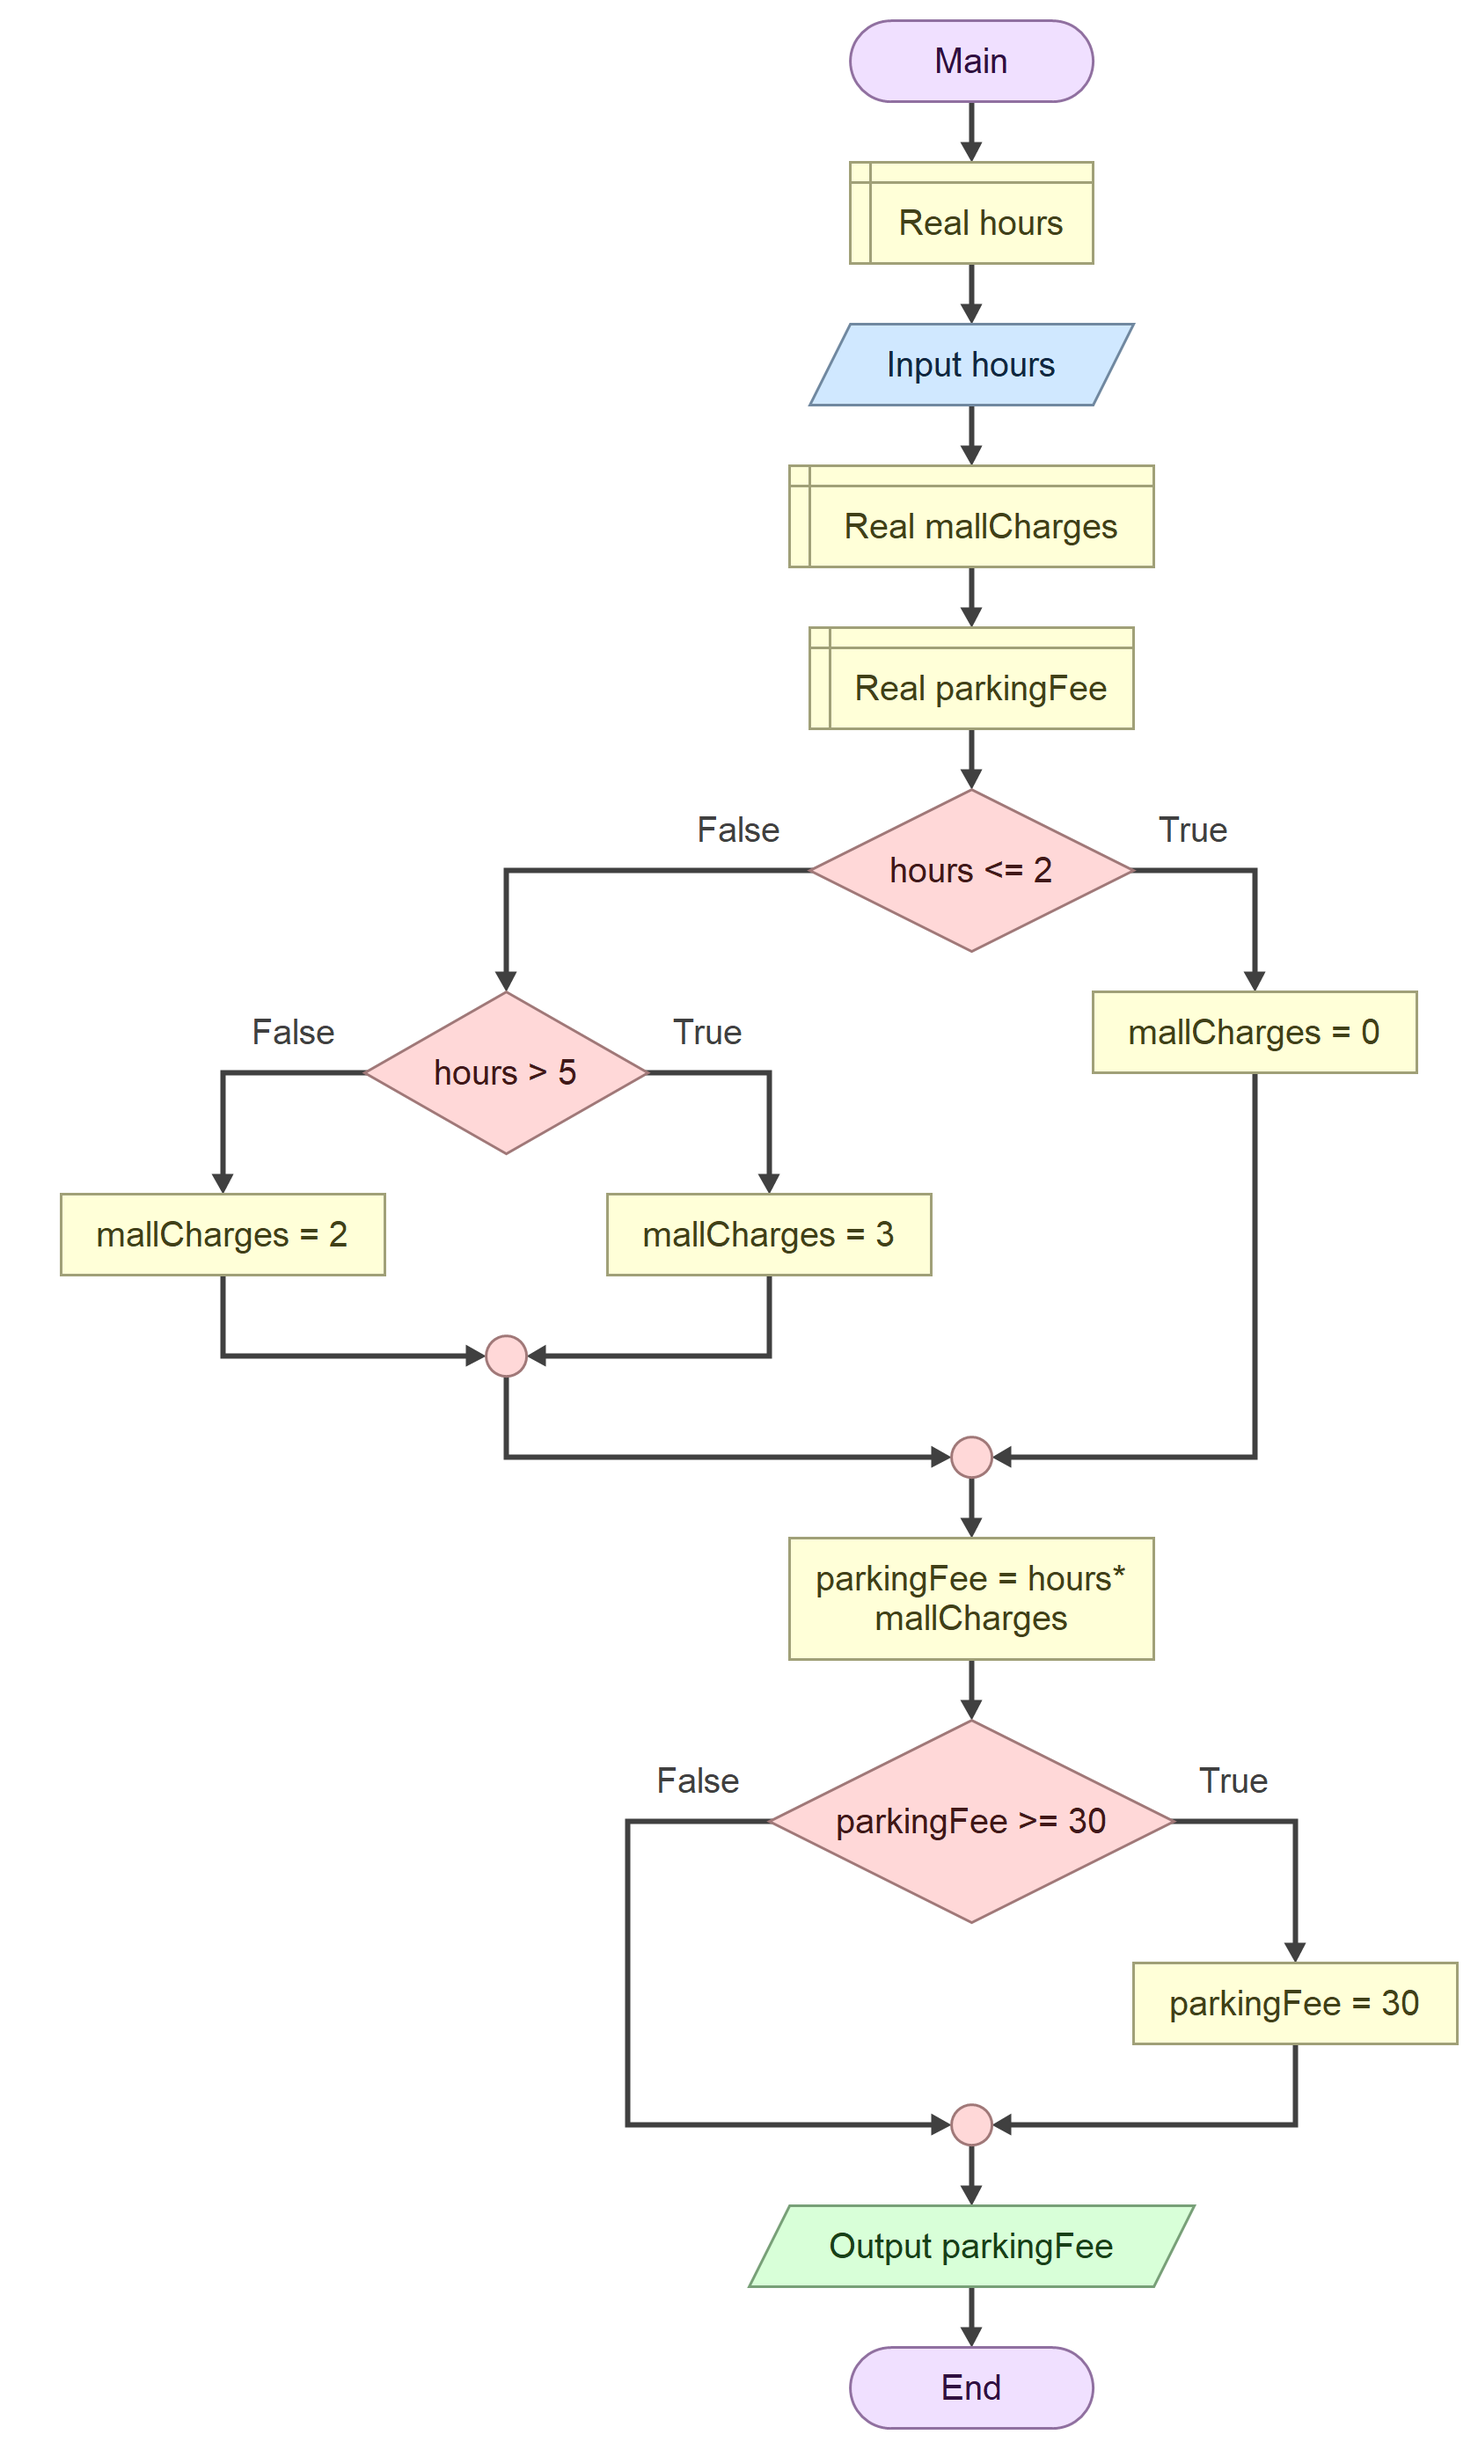
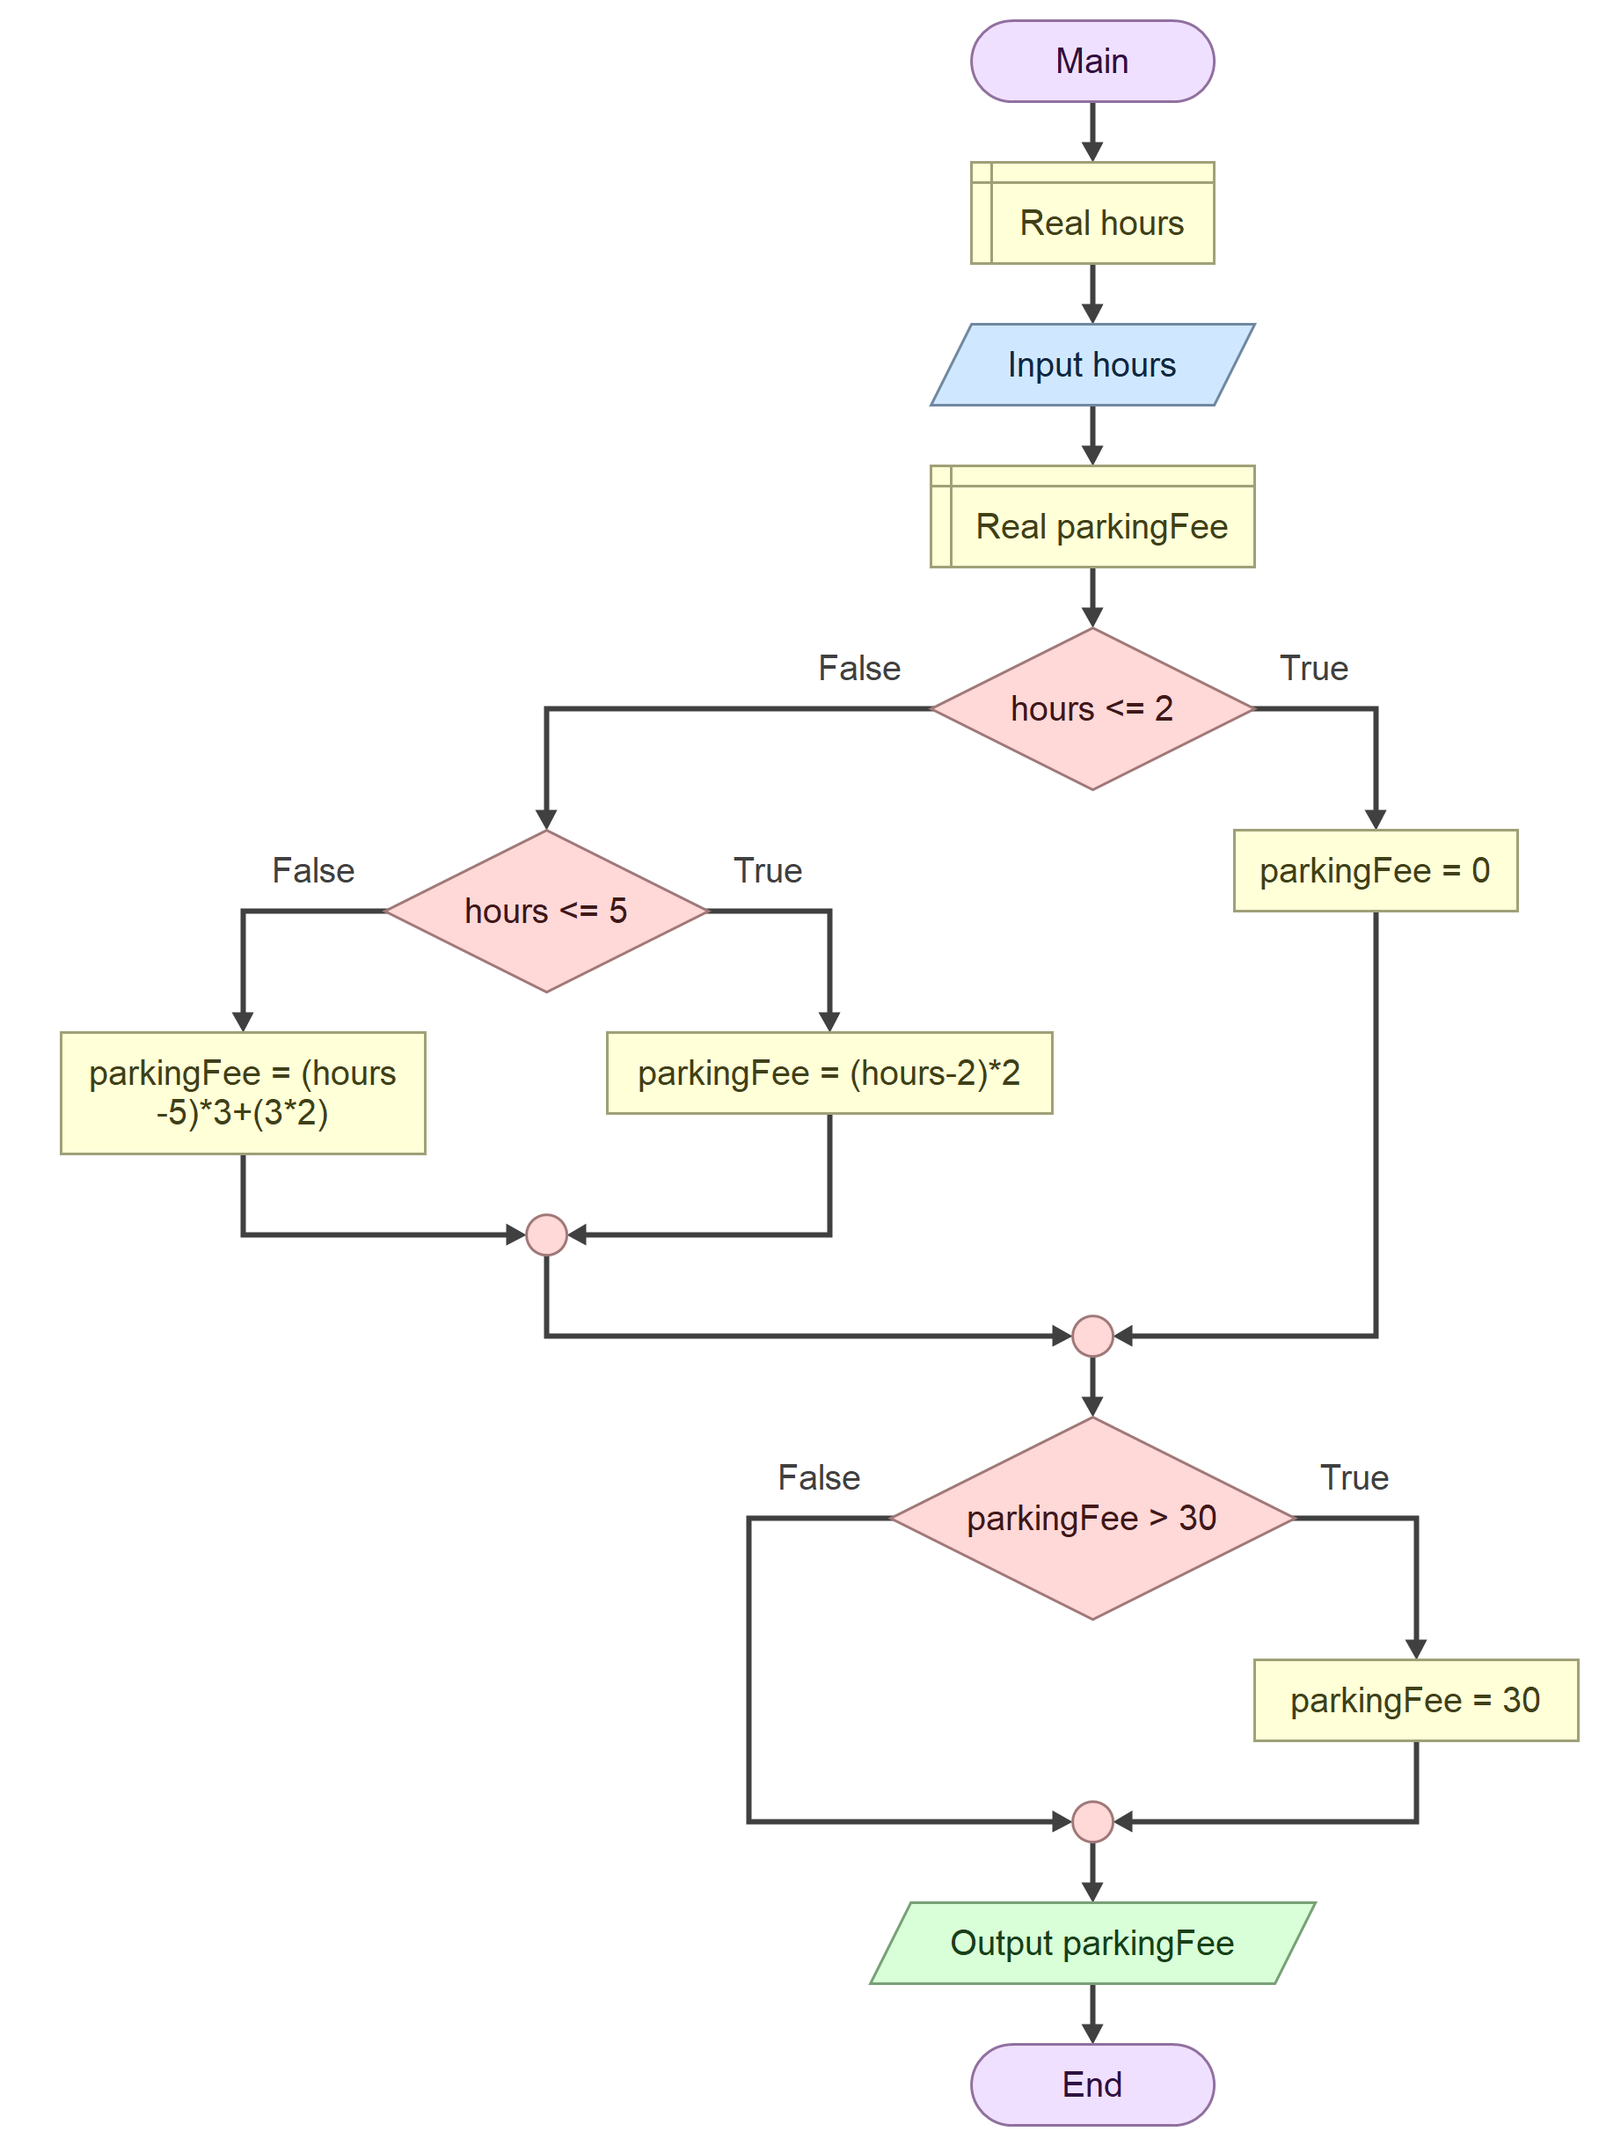
exercise 3

Changed region(s): [[0.031, 0.0, 0.9905, 0.9971], [0.4024, 0.7478, 0.4333, 0.8725]]

diff --git a/labs/lab04/exercise3/lab-4-3.py b/labs/lab04/exercise3/lab-4-3.py
@@ -1,12 +1,11 @@
 hours = float(input())
 if hours <= 2:
-    mallCharges = 0
+    parkingFee = 0
 else:
-    if hours > 5:
-        mallCharges = 3
+    if hours <= 5:
+        parkingFee = (hours - 2) * 2
     else:
-        mallCharges = 2
-parkingFee = hours * mallCharges
-if parkingFee >= 30:
+        parkingFee = (hours - 5) * 3 + (3 * 2)
+if parkingFee > 30:
     parkingFee = 30
 print(parkingFee)
